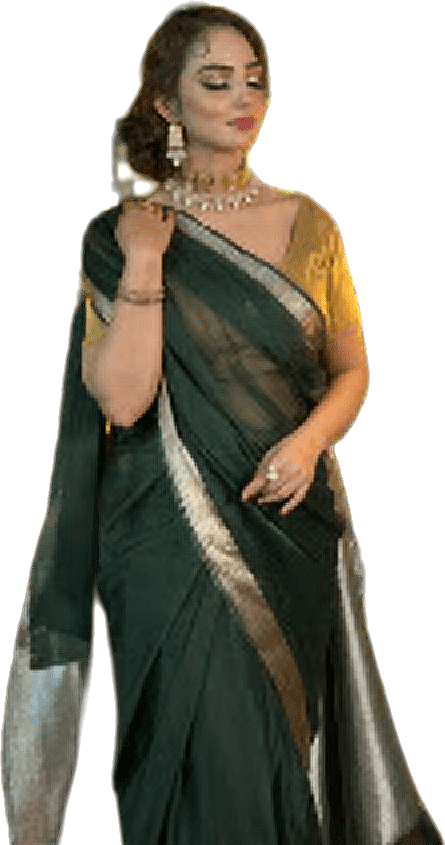
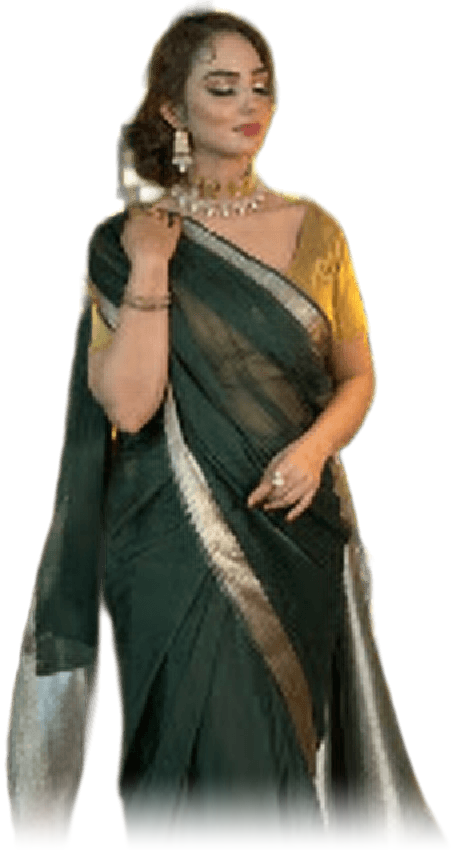
Lookbook loops; re-cut all models from sharp originals, keep full garment, fade cropped edges

diff --git a/js/app.js b/js/app.js
@@ -13,7 +13,7 @@ const CATS=[["all","View All"],["best","Best Sellers"],["new","New Arrivals"],["
 const inCat=(p,c)=>c==="all"||(c==="best"?COL.best.includes(p.id):c==="new"?COL.new.includes(p.id):p.cat===c);
 
 /* ---------- media ---------- */
-function media(p){const m=MEDIA[p.id]||{};const photos=[];for(let i=0;i<(m.photos||0);i++)photos.push(`images/products/${p.id}${i?"-"+(i+1):""}.jpg?v=hd`);return{cut:m.cut?m.cut+"?v=4":null,photos}}
+function media(p){const m=MEDIA[p.id]||{};const photos=[];for(let i=0;i<(m.photos||0);i++)photos.push(`images/products/${p.id}${i?"-"+(i+1):""}.jpg?v=hd`);return{cut:m.cut?m.cut+"?v=6":null,photos}}
 const hasPic=p=>{const m=media(p);return !!(m.cut||m.photos.length)};
 const MARK='<img src="images/peacock.png" alt="" aria-hidden="true">';
 function thumbHTML(p){const m=media(p);return m.cut?`<img src="${m.cut}" alt="${esc(p.name)}">`:m.photos[0]?`<img class="cv" src="${m.photos[0]}" alt="${esc(p.name)}">`:MARK}
@@ -120,17 +120,23 @@ pages.home=()=>{
  const L=lookbookItems(),stage=$("#lbStage");if(!stage||!L.length)return;
  let a=Math.min(3,L.length-1),busy=false,t0=0;const els=$$(".lb-m",stage);
  const S=[1,.69,.47,.34],X=[.70,.41,.22,.075],B=[78,175,236,290],O=[1,.97,.52,.2];
+ const N=L.length,side=new Array(N).fill("");
  function layout(){const H=stage.clientHeight*.76,W=stage.clientWidth;
-  els.forEach((el,i)=>{const d=i-a;let k;
-   if(d===0)k=0;else if(d<0&&d>=-3)k=-d;else k=null;
-   if(k!==null){el.style.height=(H*S[k])+"px";el.style.width=(H*S[k]*.72)+"px";el.style.left=(W*X[k])+"px";el.style.bottom=B[k]+"px";el.style.opacity=O[k];el.style.zIndex=10-k;el.style.pointerEvents=k?"auto":"none";el.style.filter=k>=2?"grayscale(.35)":"none"}
-   else if(d>0){el.style.height=(H*1.06)+"px";el.style.width=(H*1.06*.72)+"px";el.style.left=(W*.92)+"px";el.style.bottom=(B[0]-20)+"px";el.style.opacity=0;el.style.zIndex=11;el.style.pointerEvents="none";el.style.filter="none"}
-   else{el.style.height=(H*.25)+"px";el.style.width=(H*.14)+"px";el.style.left=(W*-.05)+"px";el.style.bottom=B[3]+"px";el.style.opacity=0;el.style.pointerEvents="none"}});
-  $("#lbCount").textContent=String(a+1).padStart(2,"0")+" / "+String(L.length).padStart(2,"0")}
+  els.forEach((el,i)=>{const d=((i-a)%N+N)%N;          // 0 = front, N-1..N-3 = the three on the left (wraps round)
+   let k=d===0?0:(d>=N-3&&d<N)?N-d:null;
+   const st=el.style;
+   if(k!==null){st.height=(H*S[k])+"px";st.width=(H*S[k]*.72)+"px";st.left=(W*X[k])+"px";st.bottom=B[k]+"px";st.opacity=O[k];st.zIndex=10-k;st.pointerEvents=k?"auto":"none";st.filter=k>=2?"grayscale(.35)":"none";side[i]=""}
+   else{const left=(N>=5&&d===N-4);const ns=left?"L":"R";
+    if(side[i]&&side[i]!==ns){st.transition="none"}      // jump unseen across the screen (invisible) instead of flying over it
+    if(left){st.height=(H*.25)+"px";st.width=(H*.14)+"px";st.left=(W*-.05)+"px";st.bottom=B[3]+"px";st.opacity=0;st.zIndex=1}
+    else{st.height=(H*1.06)+"px";st.width=(H*1.06*.72)+"px";st.left=(W*.92)+"px";st.bottom=(B[0]-20)+"px";st.opacity=0;st.zIndex=11}
+    st.pointerEvents="none";st.filter="none";side[i]=ns;
+    if(st.transition==="none"){void el.offsetWidth;st.transition=""}}});
+  $("#lbCount").textContent=String(a+1).padStart(2,"0")+" / "+String(N).padStart(2,"0")}
  function panel(first){const p=L[a],m=media(p),box=$("#lbIn");
   const fill=()=>{box.innerHTML=`<div class="lb-thumb ${m.cut?"":"ph"}">${thumbHTML(p)}</div><h2 class="lb-n">${esc(p.name)}</h2><p class="lb-d">${esc(p.desc)}</p><div class="lb-p">${priceTxt(p)}</div><a class="btn" href="product.html?id=${p.id}">Shop The Look</a>`;box.classList.remove("out")};
   if(first){fill();return}box.classList.add("out");setTimeout(fill,260)}
- function go(n){if(busy||n<0||n>=L.length||n===a)return;busy=true;a=n;layout();panel();setTimeout(()=>busy=false,650)}
+ function go(n){n=((n%N)+N)%N;if(busy||n===a)return;busy=true;a=n;layout();panel();setTimeout(()=>busy=false,650)}
  layout();panel(true);addEventListener("resize",layout);
  $("#lbPrev").onclick=()=>go(a-1);$("#lbNext").onclick=()=>go(a+1);
  els.forEach((el,i)=>el.addEventListener("click",()=>go(i)));
@@ -140,7 +146,7 @@ pages.home=()=>{
   const d=(Math.abs(e.deltaY)>=Math.abs(e.deltaX)?e.deltaY:e.deltaX)*unit;if(!d)return;
   e.preventDefault();                                    // home never scrolls the page itself
   const now=Date.now(),gap=now-lastW;lastW=now;
-  const dir=d>0?1:-1,can=(dir>0&&a<L.length-1)||(dir<0&&a>0);if(!can){acc=0;return}
+  const dir=d>0?1:-1;
   if(locked){ if(now-lastT>700&&gap>110)locked=false; else return }   // one glide = one step; unlock after a pause
   if(gap>220||Math.sign(acc)!==dir)acc=0;acc+=d;         // add up tiny trackpad deltas
   if(Math.abs(acc)<45)return;
